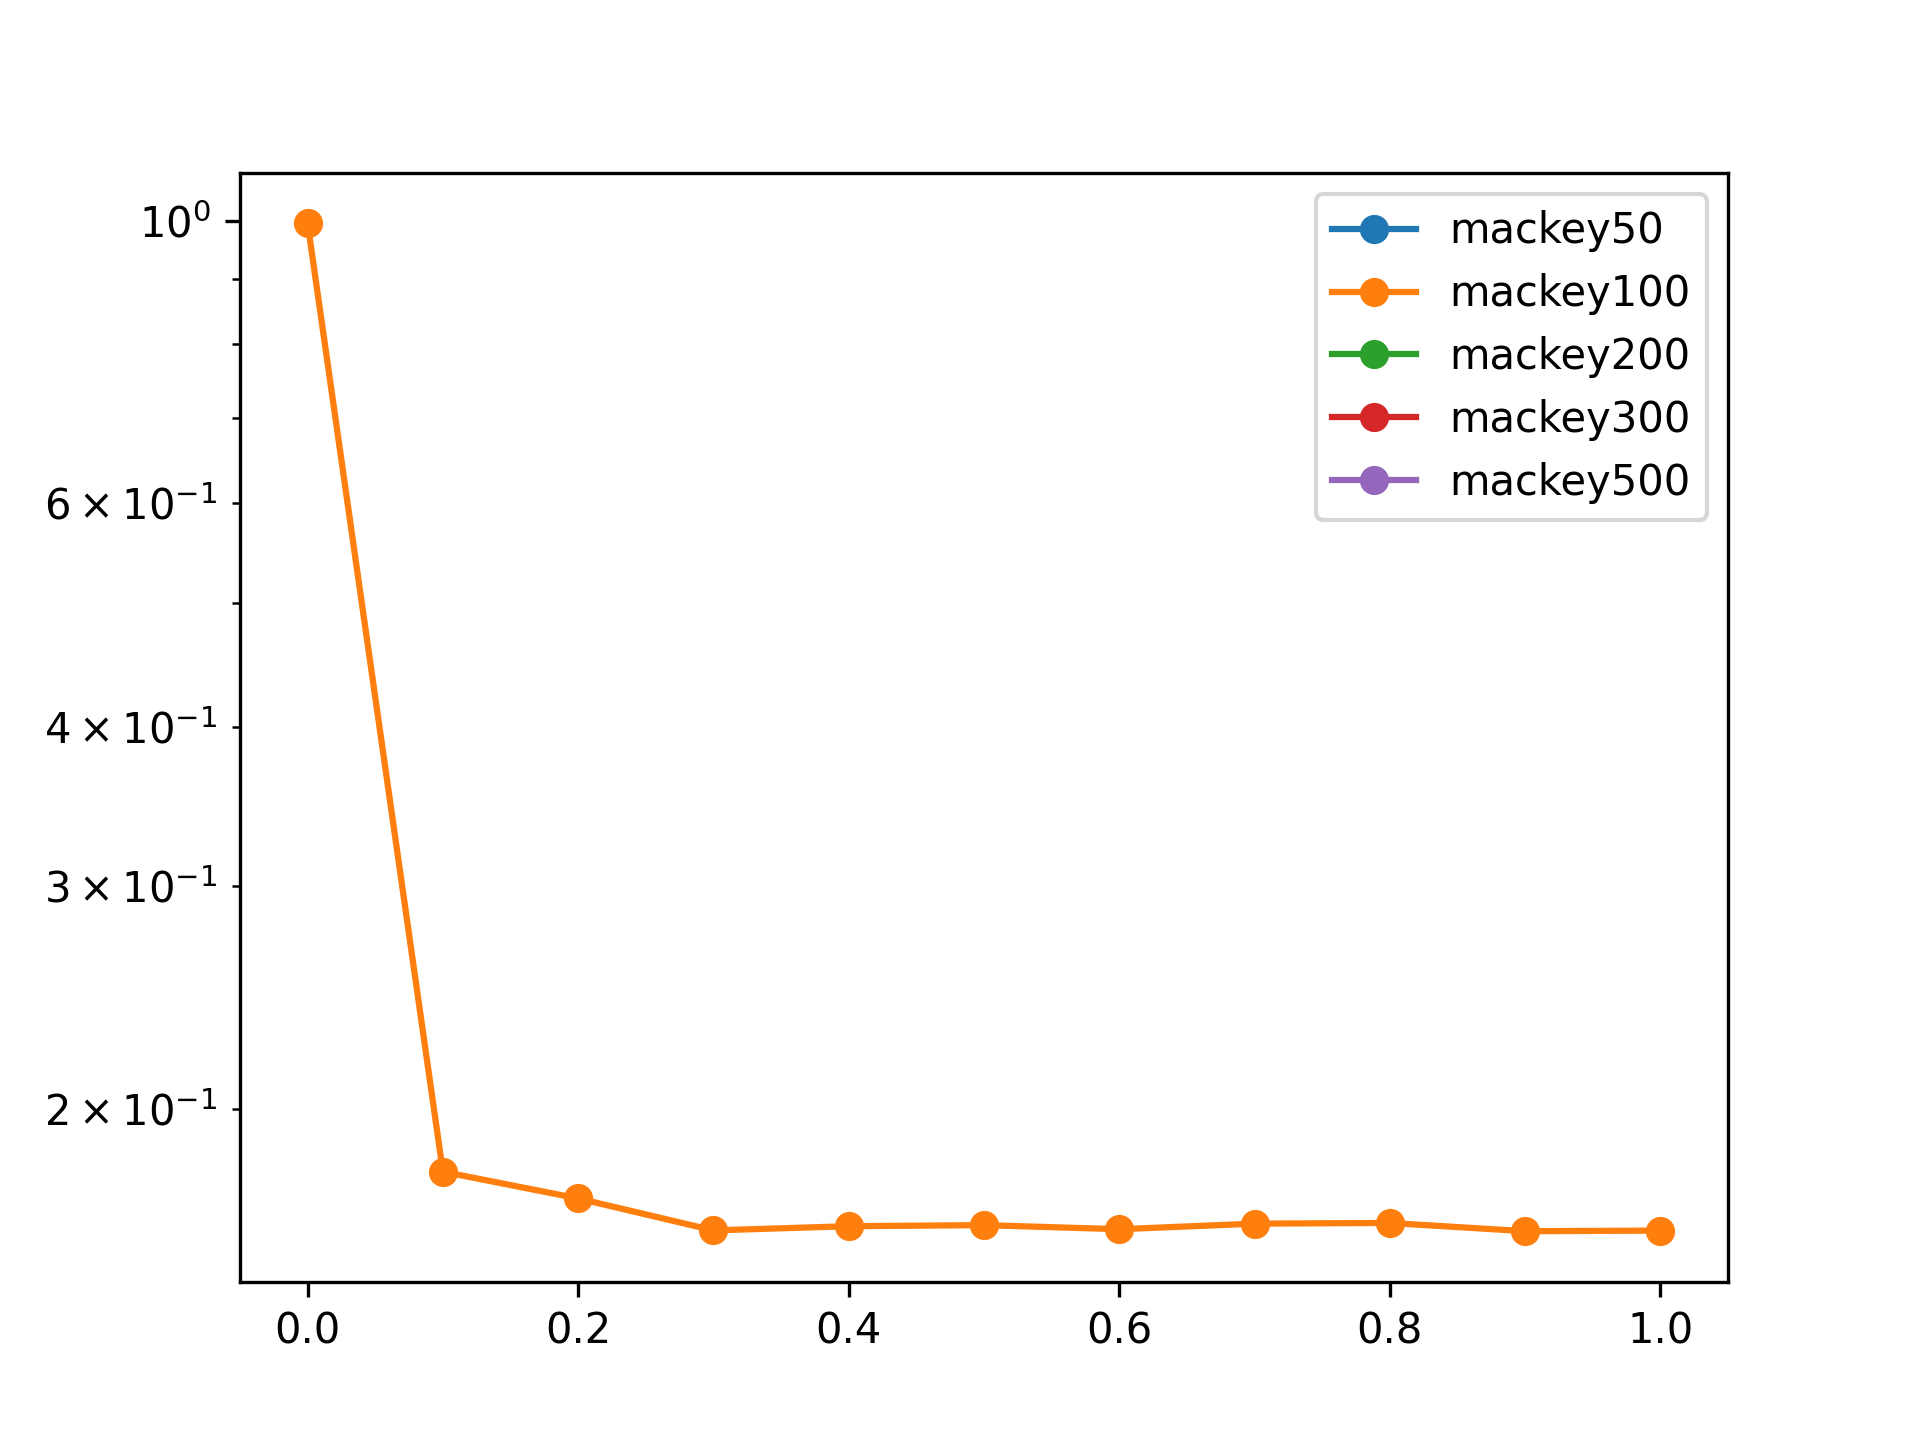
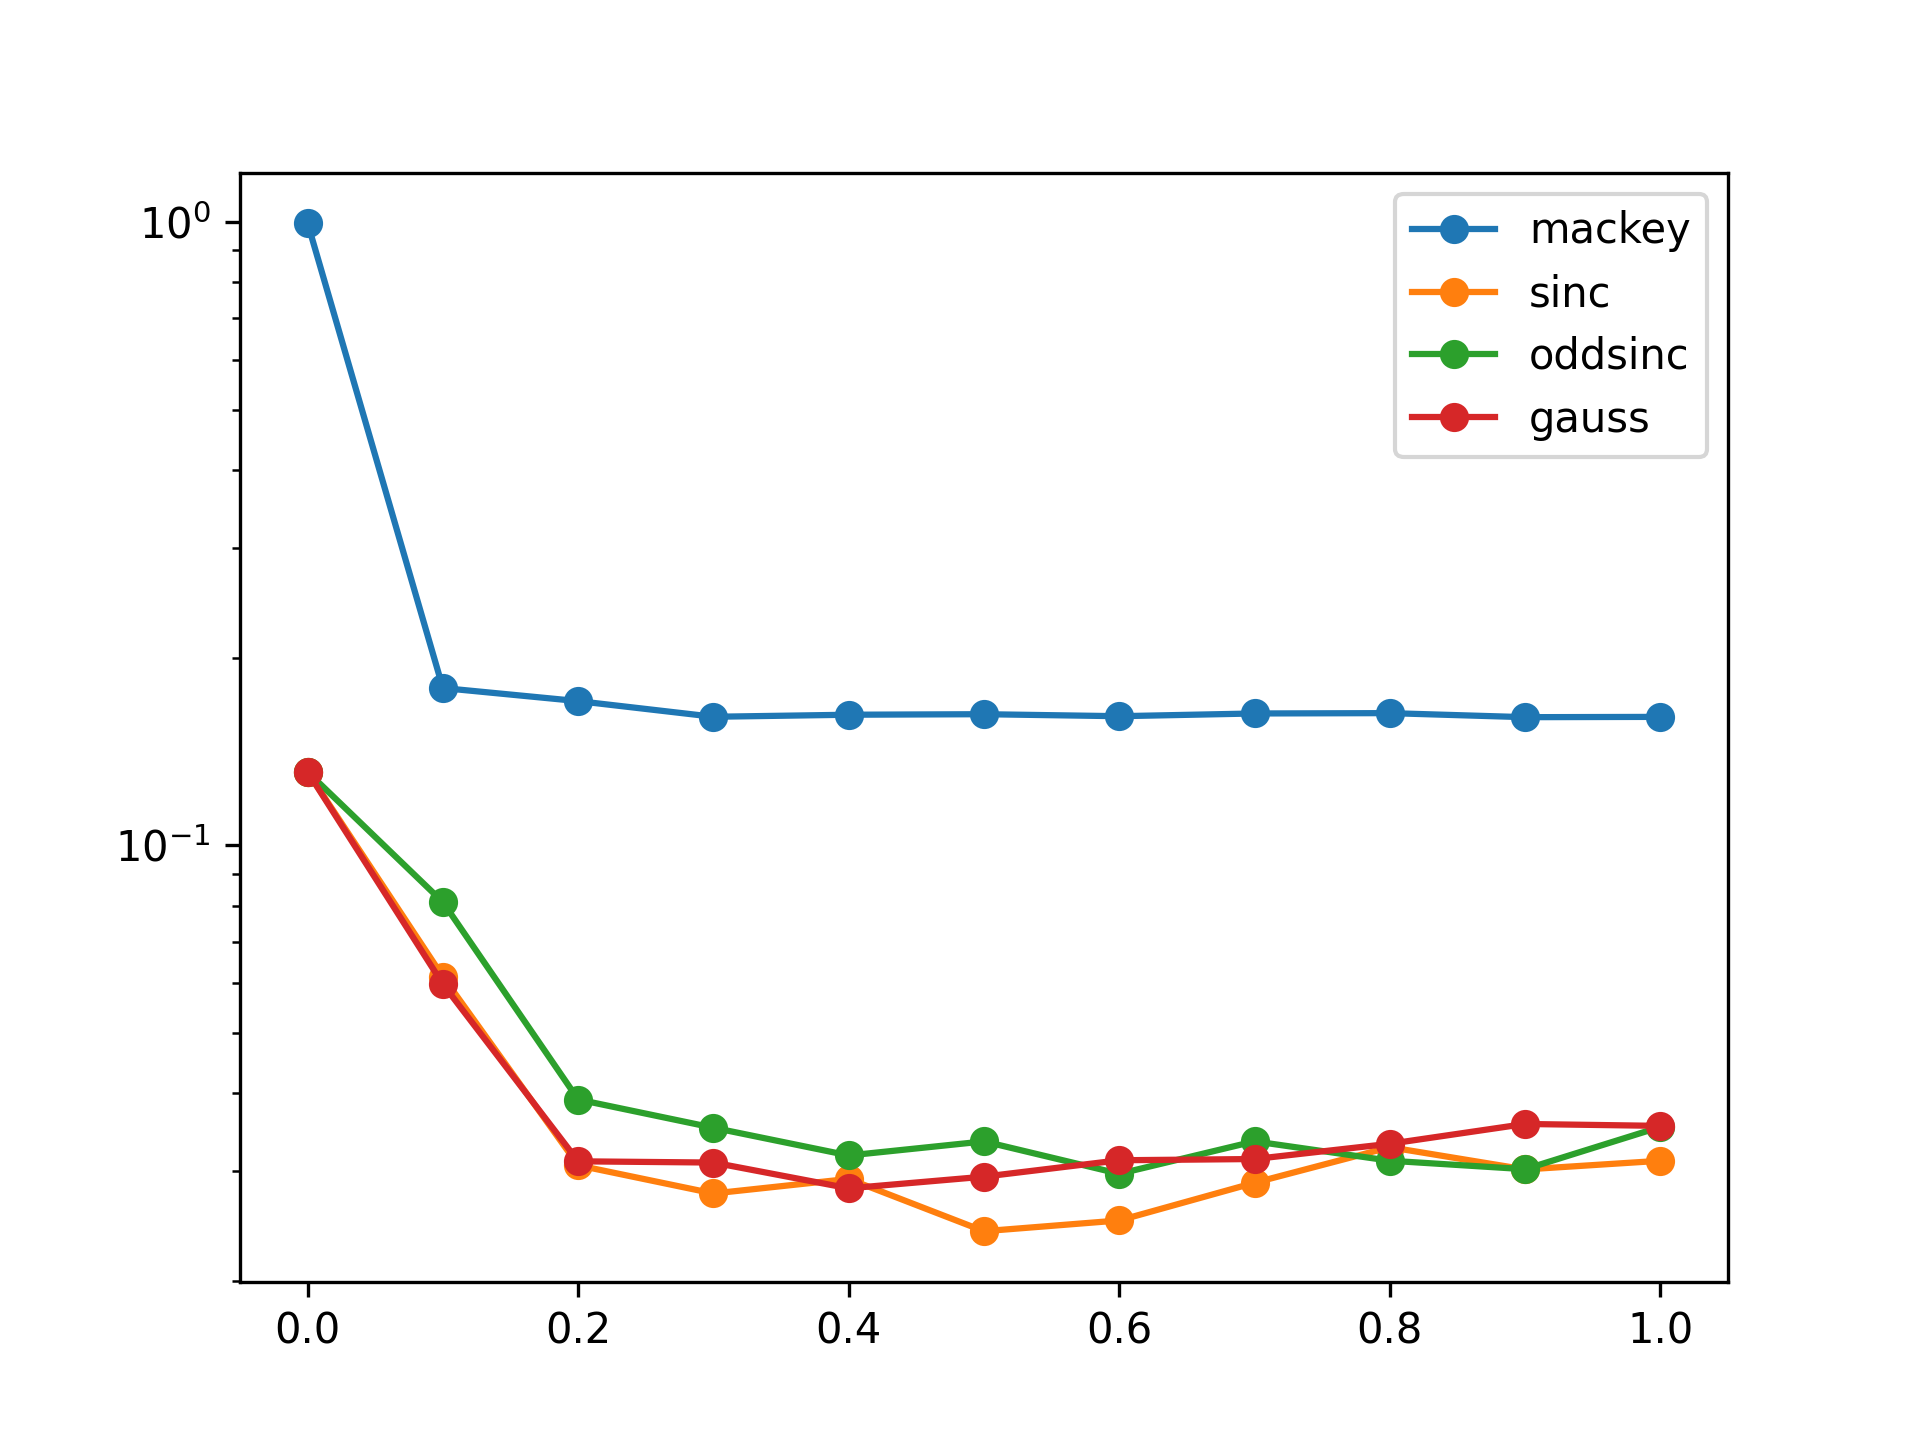
NARMA10 性能比較のグラフ生成

diff --git a/reservoir_ESN/graph_mix.py b/reservoir_ESN/graph_mix.py
@@ -7,7 +7,7 @@ for name in os.listdir(folder):
     name = os.path.splitext(os.path.basename(name))[0]
     df = pd.read_csv(folder + name + '.txt', sep=',',comment='#')
     p_list = df["p"].unique()
-    function_names = ["mackey100", "mackey200"];
+    function_names = ["mackey", "sinc", "oddsinc", "gauss"];
     for function_name in function_names:
         data_x, data_y = [], []
         for p in p_list:
